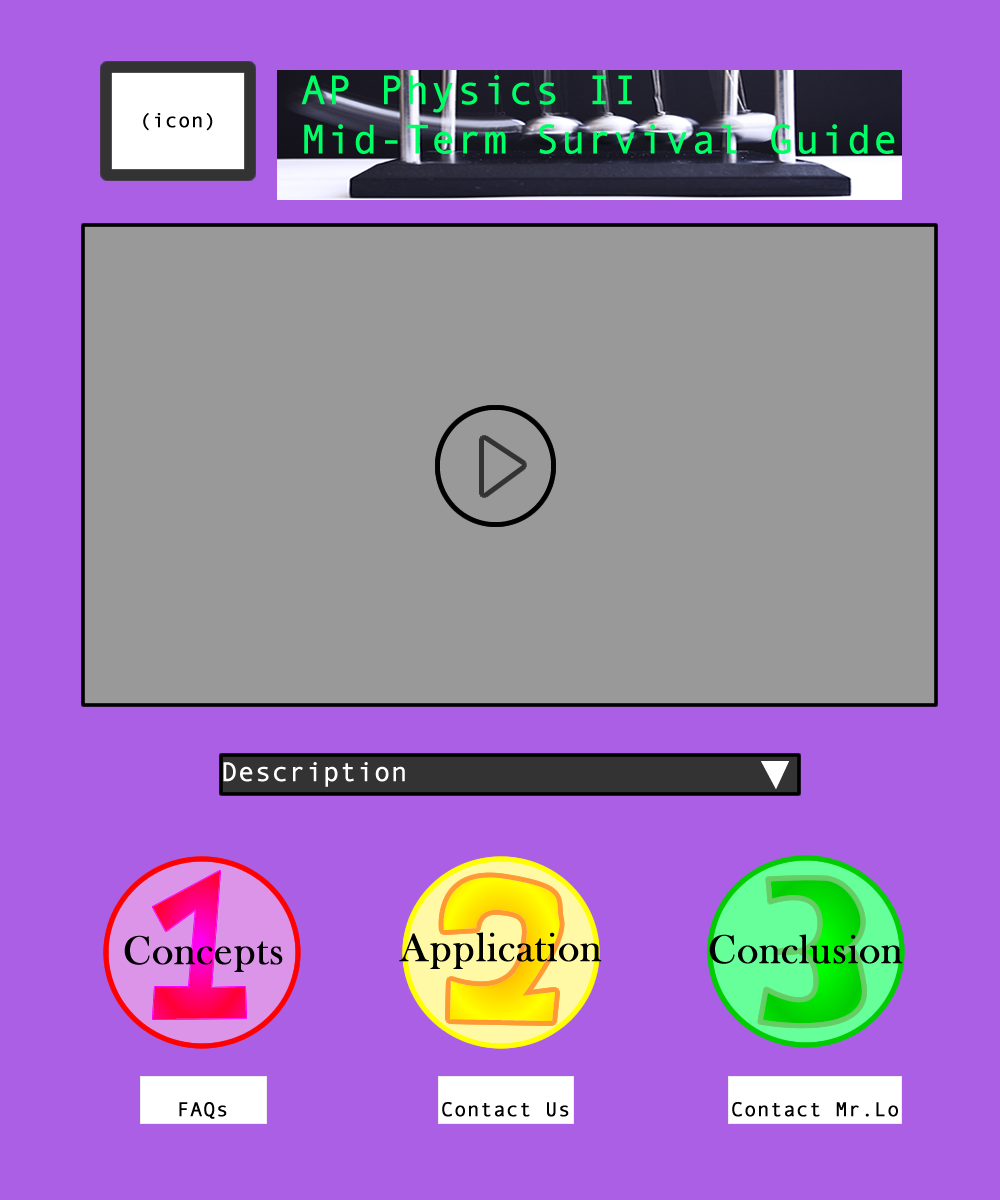
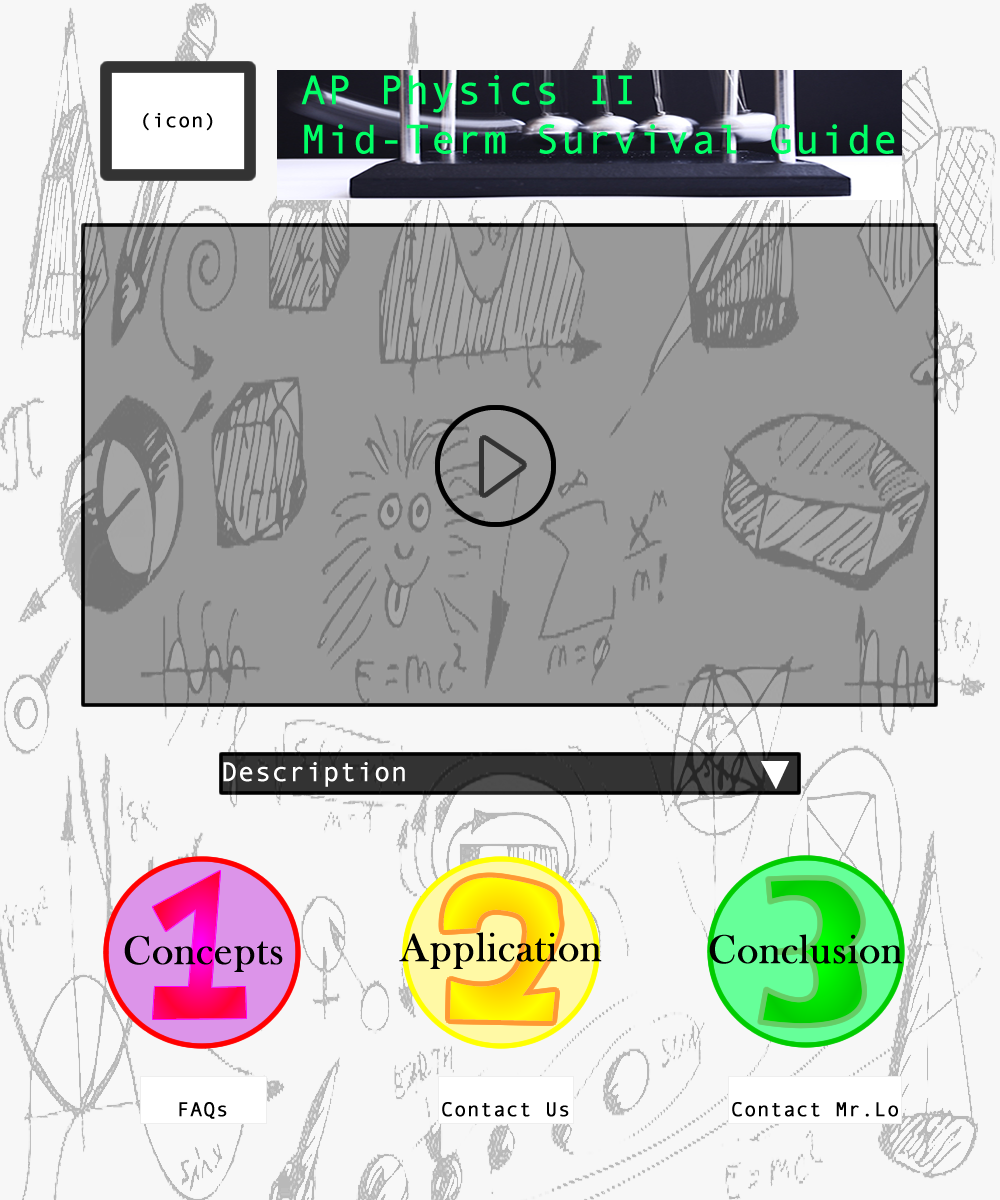
created templete

diff --git a/work process.html b/work process.html
@@ -37,11 +37,41 @@
     <ul>
       <li>easy to change shapes numerically(increase accuracy of sizes)</li>
       <li>Applying coding skill can help with formatting</li>
+      <li>easy to change background</li>
     </ul>
     <h3>weakness of using Dreamweavers</h3>
     <ul>
       <li>difficult to position pictures and text(by px)</li>
       <li>takes more clicking to change colors</1i>
-    </ul></li>
+    </ul>
+    <h4>Feedback from client</h4>
+    <ul>
+      <li>He likes the arrangement of the contents and links</li>
+      <li>He decided to leave the decision of graphics us but will also give us feedback from time to time</li>
+    </ul>
+    <h1>Creating templetes</h1>
+    <h3>Decisions to make</h3>
+    <ul>
+      <li>theme</li>
+        <ul>
+          <li>science, classroom</li>
+        </ul>
+      <li>fonts</li>
+        <ul>
+          <li>comic sans(hand-writing style)</li>
+        </ul>
+      <li>background</li>
+        <ul>
+          <li>chalkboard doole</li>
+        </ul>
+    </ul>
+    <h3>Ideas for tempelete</h3>
+    <img src="subpage-tempelete.png" width=400px />
+    <p><strong>description</strong><p>
+      <ul>
+        <li>This wireframe contains a navigation bar on the top of the page for the audience to link to other subpages on the site</li>
+        <li>A homepage botton is placed at the bottom of the content</li>
+        <li>The placement of the icon and the title follows the homepage</li>
+      </ul>
   </body>
 </html>

diff --git a/finalpages/index-DW.html b/finalpages/index-DW.html
@@ -14,8 +14,8 @@
 }
 #apDiv2 {
 	position:absolute;
-	left:300px;
-	top:54px;
+	left:304px;
+	top:51px;
 	width:603px;
 	height:111px;
 	z-index:2;
@@ -127,8 +127,8 @@
 }
 #apDiv14 {
 	position:absolute;
-	left:118px;
-	top:931px;
+	left:115px;
+	top:924px;
 	width:176px;
 	height:57px;
 	z-index:11;
@@ -157,8 +157,8 @@
 }
 #apDiv16 {
 	position:absolute;
-	left:697px;
-	top:932px;
+	left:696px;
+	top:927px;
 	width:206px;
 	height:64px;
 	z-index:13;
@@ -197,13 +197,11 @@
 }
 #apDiv2 h1 {
 	color: #0F0;
-	background-attachment: fixed;
-	background-image: url(title%20background.png);
-	background-repeat: no-repeat;
-	background-position: center center;
 }
 body {
-	background-color: #AA5FE4;
+	background-color: #FFF;
+	background-image: url(../BACKGROUNDPHYSICS.png);
+	background-repeat: repeat;
 }
 body,td,th {
 	font-family: "Comic Sans MS", cursive;
@@ -232,6 +230,25 @@ body,td,th {
 	background-color: #000;
 }
 #apDiv5 {
+}
+#apDiv10 {
+	background-color: #FFF;
+}
+#apDiv10 {
+	background-color: #09C;
+}
+#apDiv11 {
+	background-color: #09C;
+}
+#apDiv12 {
+	background-color: #09C;
+}
+html { 
+  background-image: url(../BACKGROUNDPHYSICS.png) no-repeat center center fixed; 
+  -webkit-background-size: cover;
+  -moz-background-size: cover;
+  -o-background-size: cover;
+  background-size: cover;
 }
 </style>
 </head>

diff --git a/final-decision.html b/final-decision.html
@@ -39,6 +39,9 @@
     <p>This idea focuses on only kinemetics and divides the subpages by lab, concept and conclusion.</p>
     <p>This idea did not fulfill the sucess criteria of introducing all 4 topics.</p>
     <p>The idea of dividing the subpages by lab, concept and conclusion was more effective in helping the students study since they provide help for students at different stages in understanging the topic.</p>
+    <img src="flowchart-idea-3.png" />
+    <p>This idea also divides the sub-pages by topic. But there's link for students to go from topic to topic without going back to a homepage</p>
+    <p>There's no home page in this idea, might be difficult to nevigate through</p>
     <h3>further resesarch about this project</h3>
     <ul>
       <li>Similar websites</li>
